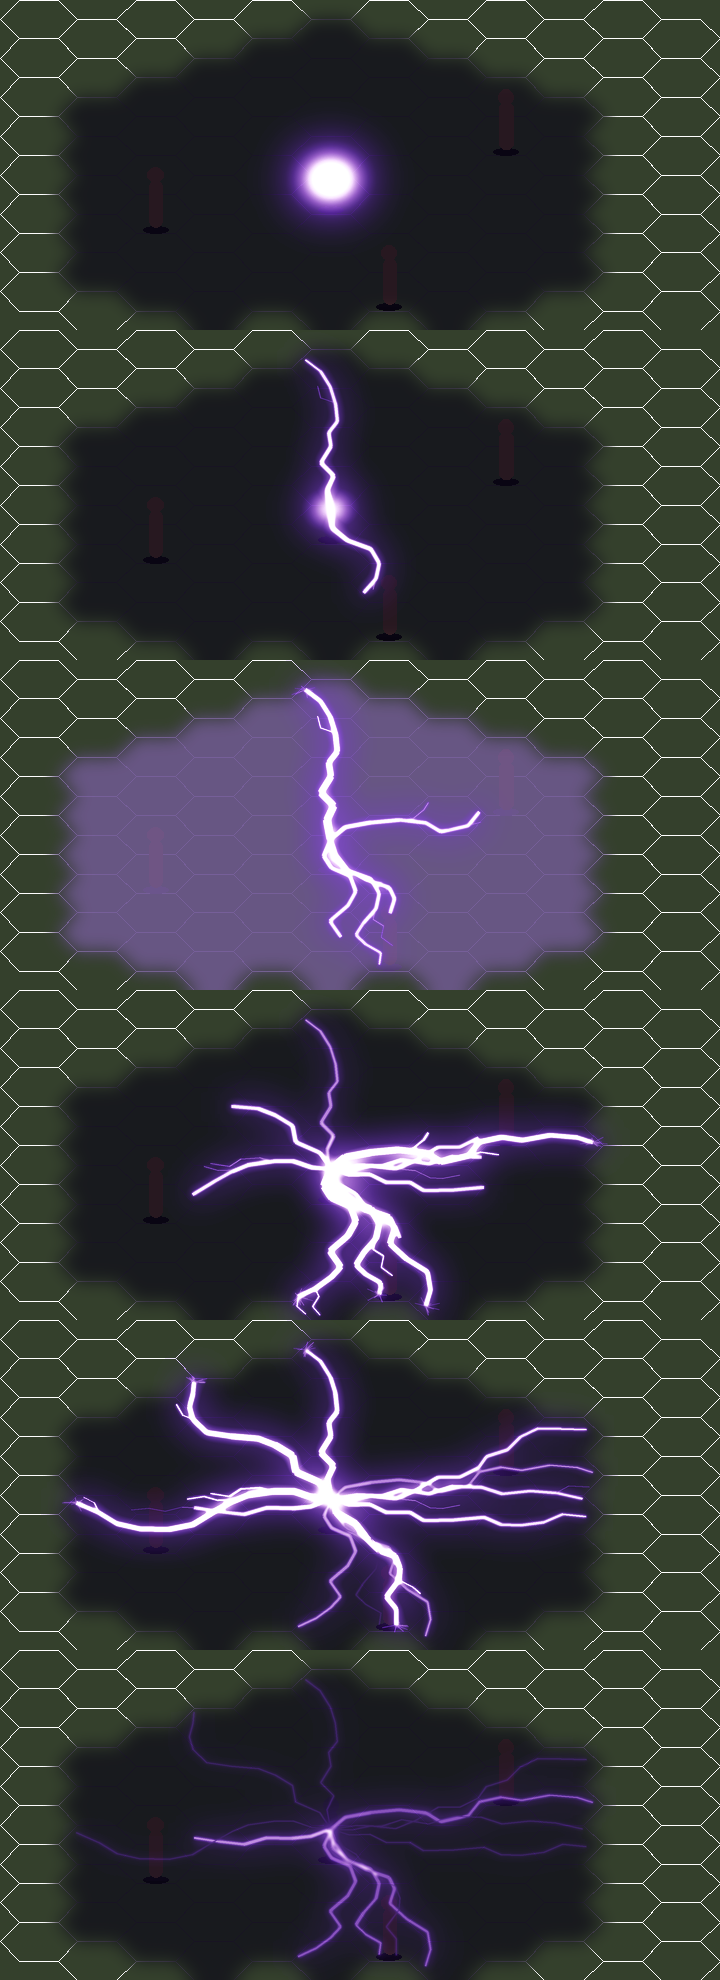
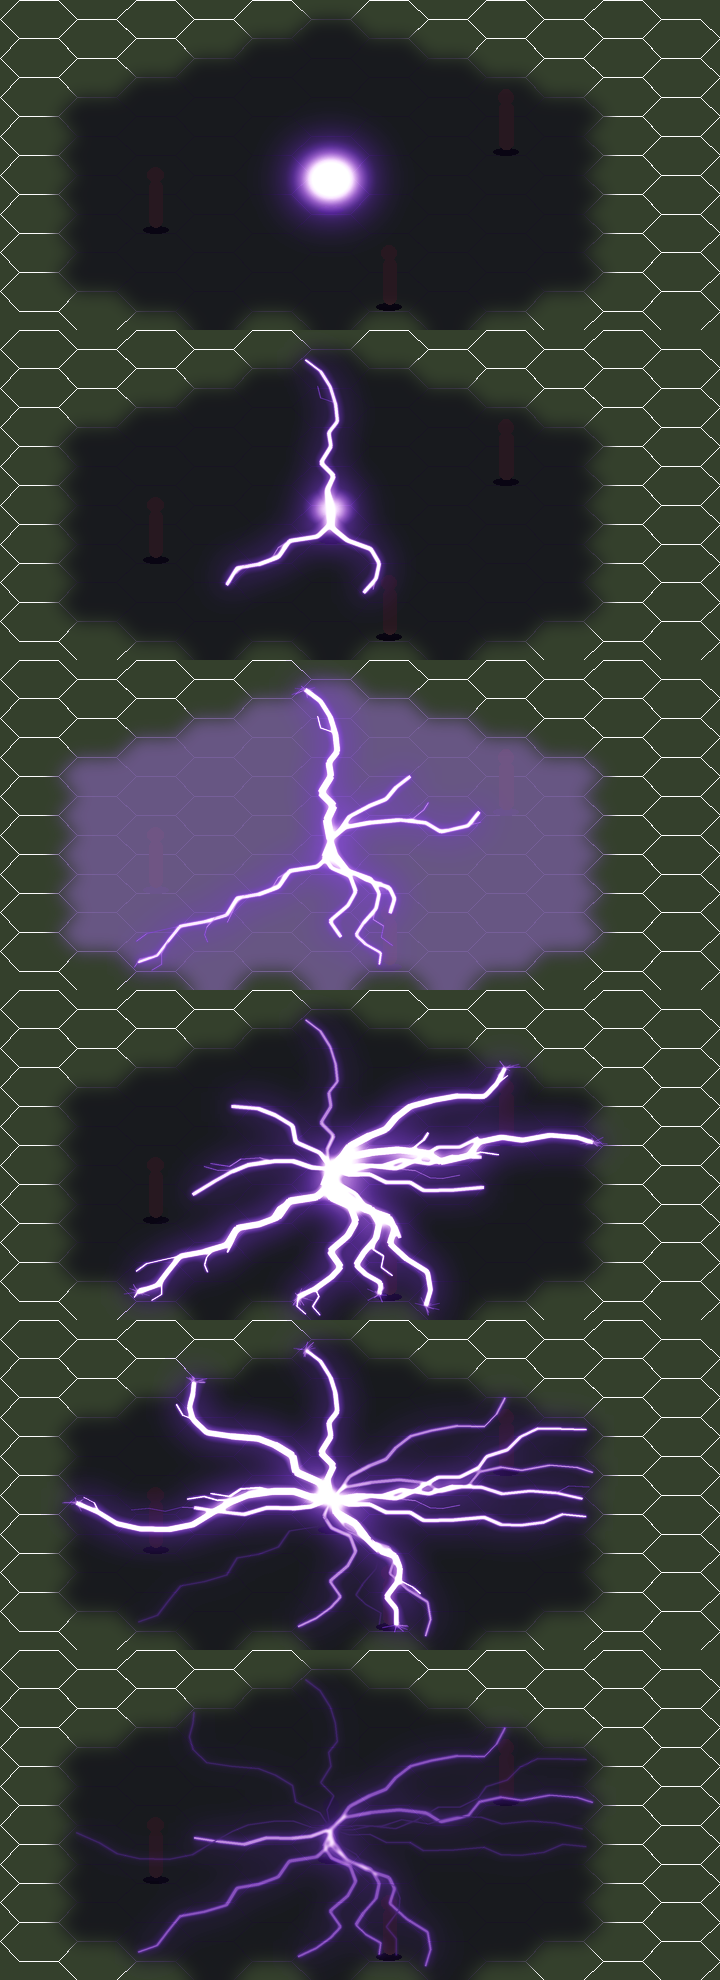
FCF v18b master: guarantee a far bolt in every on-screen sector (adds top-right and bottom-left)
Claude-Session: https://claude.ai/code/session_01GL8iyk8YMQ4wday8ynG1KQ

diff --git a/art/jutsu_icons/forbidden_chakra_fury/animation/v18/master_v18b.py b/art/jutsu_icons/forbidden_chakra_fury/animation/v18/master_v18b.py
@@ -63,6 +63,27 @@ def main(seed=21):
         ang = k * 2 * math.pi / n + rnd.uniform(-0.18, 0.18)
         launch = rnd.uniform(0, 260)
         bolts.append((launch, bolt_tree(rnd, ang), rnd.random() < 0.5))
+    # coverage: every one of eight sectors round the user gets a bolt that ends far out in it
+    def end_of(segs):
+        main = [x for x in segs if x[2] == 0]
+        return main[-1][1] if main else SRC
+
+    def sector(p):
+        a = math.atan2(p[1] - SRC[1], p[0] - SRC[0])      # on screen, as the player sees the corners
+        return int(((a + math.pi / 8) % (2 * math.pi)) // (math.pi / 4))
+
+    def reach(p):
+        return math.hypot(p[0] - SRC[0], (p[1] - SRC[1]) / 0.62)
+    far = 0.6 * max(reach(end_of(b[1])) for b in bolts)
+    for sec in (7, 3, 1, 5, 0, 2, 4, 6):   # the diagonals first: top-right, bottom-left, ...
+        if any(sector(end_of(b[1])) == sec and reach(end_of(b[1])) >= far for b in bolts):
+            continue
+        for _ in range(40):                      # aim at the sector until a bolt makes it out
+            segs = bolt_tree(rnd, sec * math.pi / 4 + rnd.uniform(-0.25, 0.25))
+            e = end_of(segs)
+            if sector(e) == sec and reach(e) >= far:
+                bolts.append((rnd.uniform(40, 260), segs, rnd.random() < 0.5))
+                break
     first_land = min(b[0] for b in bolts) + 2 * STEP_MS * 2
     t_end = max(b[0] for b in bolts) + 520
     shots = []
